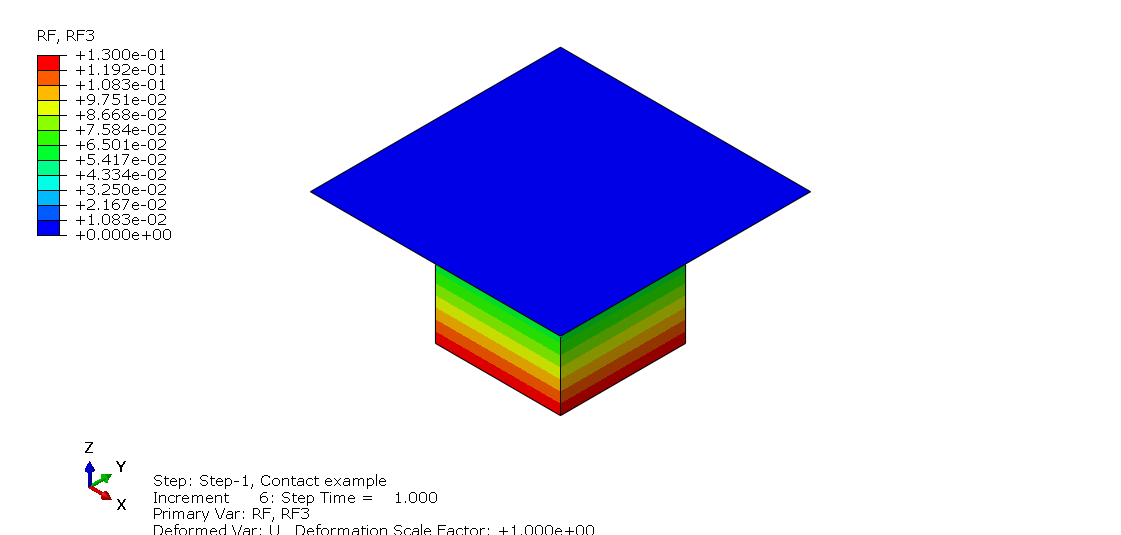
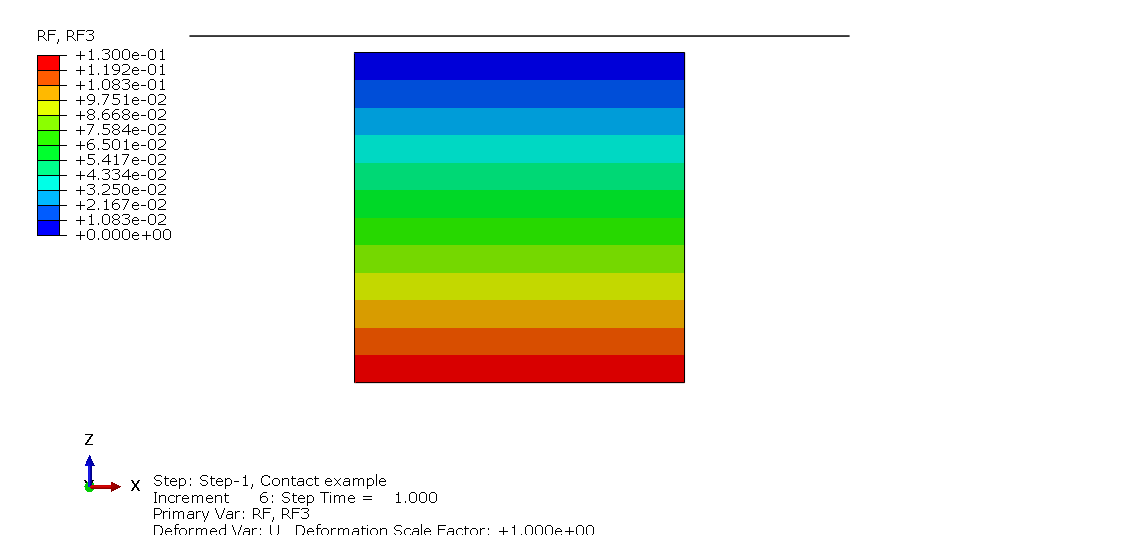
add doc

Changed region(s): [[0.1873, 0.0598, 0.7493, 0.7776], [0.0624, 0.8673, 0.1249, 0.957]]

diff --git a/03_Lesson/abaqus_input_files/post_process_plots.py b/03_Lesson/abaqus_input_files/post_process_plots.py
@@ -125,6 +125,26 @@ for StepNo in StepVec:
 		# output to TIFF file
 		session.printToFile(fileName=base_figname+'_S33', format=PNG, canvasObjects=(session.viewports['Viewport: 1'], ))
 		
+
+		
+		# ========================================
+		# plot displacement
+		# ========================================
+		session.viewports['Viewport: 1'].view.setValues(session.views['Bottom'])
+		session.viewports['Viewport: 1'].view.fitView()
+		session.viewports['Viewport: 1'].view.setValues(nearPlane=4.60318, 
+			farPlane=7.21412, width=3.3969, height=1.39356, cameraPosition=(0.622208, 
+			-5.40885, 0.370479), cameraTarget=(0.622208, 0.499796, 0.370479))
+		session.viewports['Viewport: 1'].view.setValues(cameraPosition=(0.624203, 
+			-5.40885, 0.348549), cameraTarget=(0.624203, 0.499796, 0.348549))
+			
+		v.odbDisplay.setPrimaryVariable(variableLabel='U', outputPosition=NODAL, refinement=(COMPONENT, 'U3'))
+		v.odbDisplay.display.setValues(plotState=CONTOURS_ON_DEF)
+		v.odbDisplay.contourOptions.setValues(spectrum='Rainbow', maxAutoCompute=ON, maxValue=0, minAutoCompute=ON, minValue=0, showMinLocation=OFF, showMaxLocation=OFF)
+		
+		# output to TIFF file		
+		session.printToFile(fileName=base_figname+'_U3', format=PNG, canvasObjects=(session.viewports['Viewport: 1'], ))
+		
 		# ========================================
 		# plot reaction force
 		# ========================================
@@ -134,18 +154,6 @@ for StepNo in StepVec:
 		
 		# output to TIFF file
 		session.printToFile(fileName=base_figname+'_RF3', format=PNG, canvasObjects=(session.viewports['Viewport: 1'], ))
-		
-		# ========================================
-		# plot displacement
-		# ========================================
-		v.odbDisplay.setPrimaryVariable(variableLabel='U', outputPosition=NODAL, refinement=(COMPONENT, 'U3'))
-		v.odbDisplay.display.setValues(plotState=CONTOURS_ON_DEF)
-		v.odbDisplay.contourOptions.setValues(spectrum='Rainbow', maxAutoCompute=ON, maxValue=0, minAutoCompute=ON, minValue=0, showMinLocation=OFF, showMaxLocation=OFF)
-		
-		# output to TIFF file		
-		session.printToFile(fileName=base_figname+'_U3', format=PNG, canvasObjects=(session.viewports['Viewport: 1'], ))
-		
-
 
 		
 

diff --git a/03_Lesson/readme.tex.md b/03_Lesson/readme.tex.md
@@ -119,6 +119,12 @@ Here, the base of the cube is fixed against all 3 translations. Furthermore, one
 
 ## Viewing results	
 
+* **Displacements**. We can visually check the vertical deflection of the cube.
+
+![](./abaqus_input_files/ContactInteractions_Step1_Frame7_U3.png)
+
+Note that the surface thickness is accounted for in the contact analysis.
+
 * **Reactions**. We can check that the reactions at the 4 corner nodes at the base of the cube is $\dfrac{p\,A}{4} = 0.13$.
 
 ![](./abaqus_input_files/ContactInteractions_Step1_Frame7_RF3.png)
